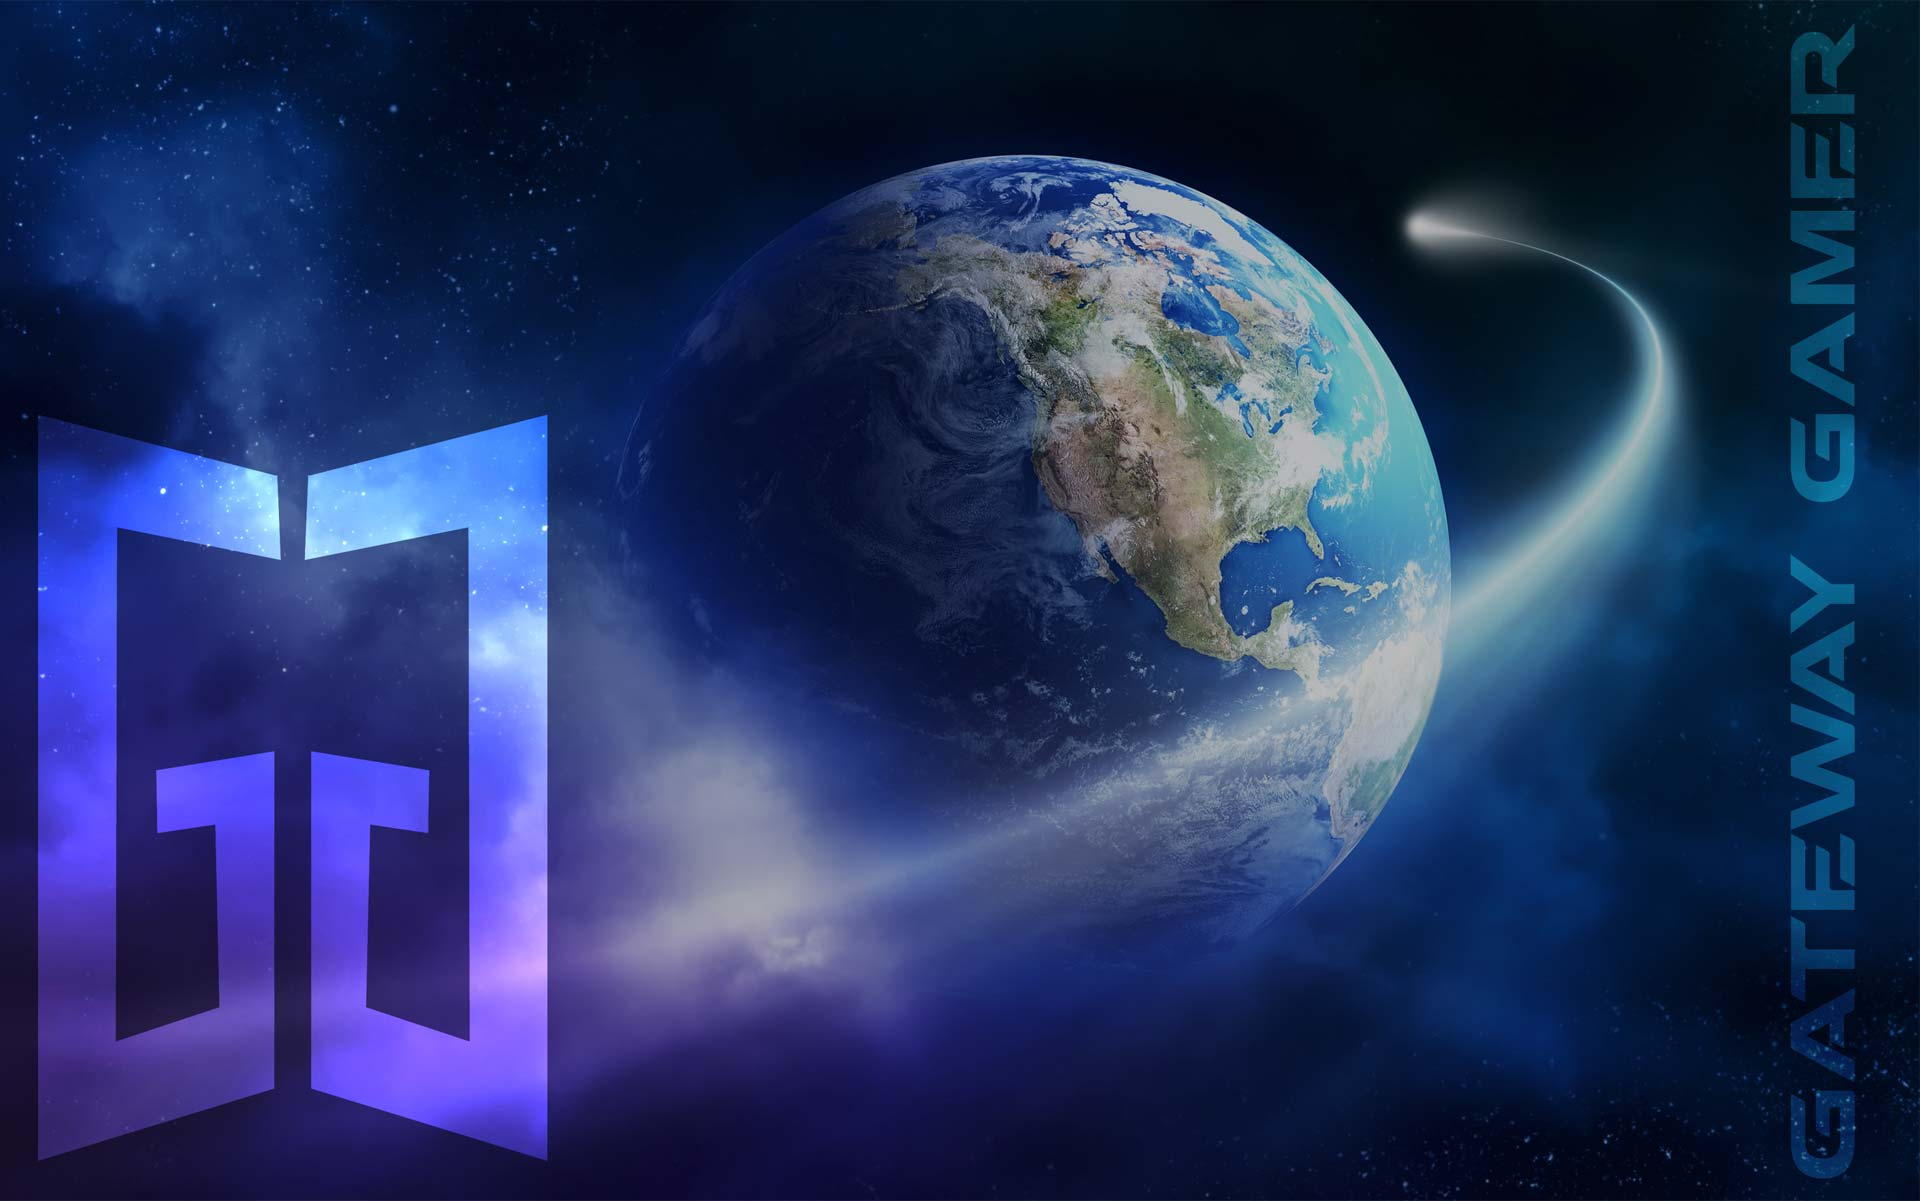
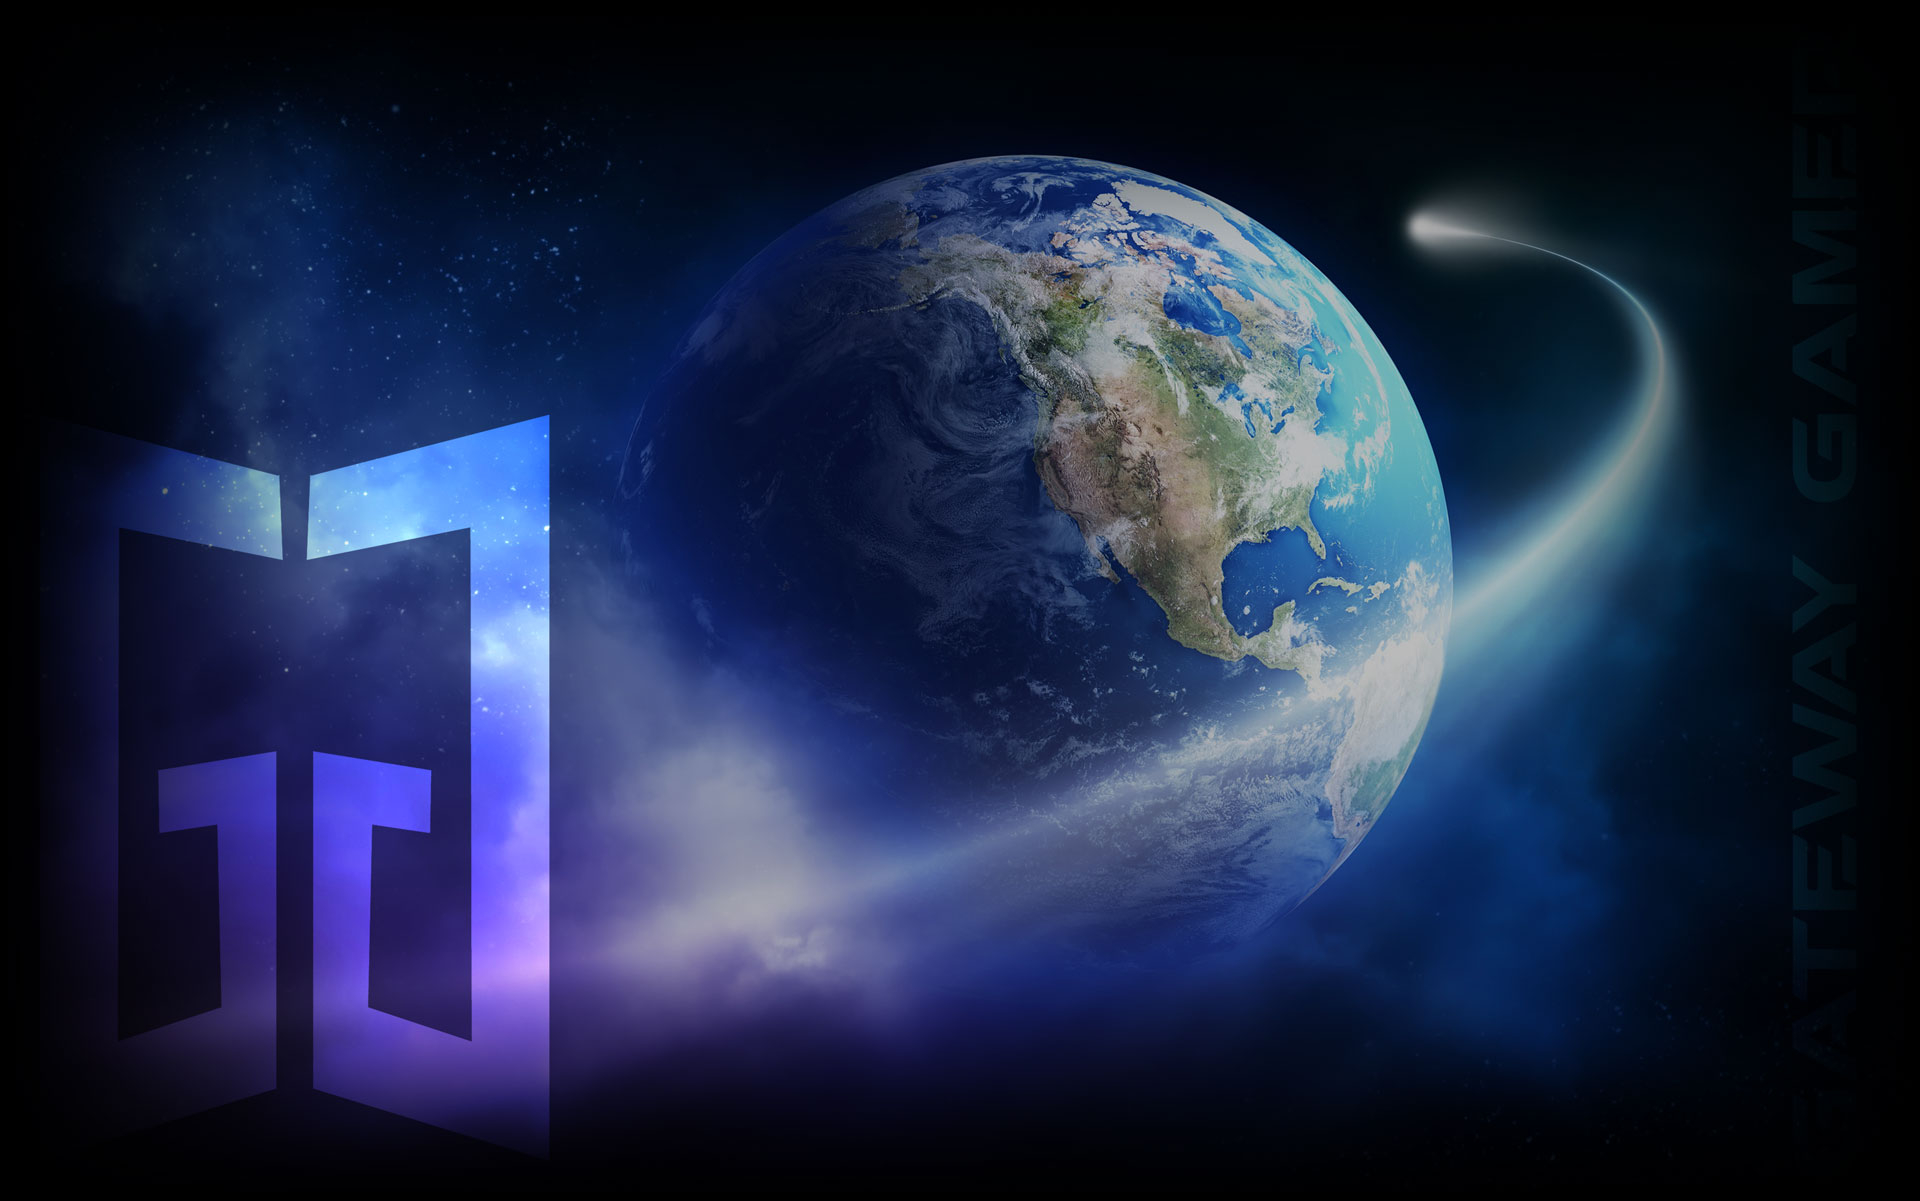
fixed user profile page, fixed bg image with gradient magic

diff --git a/public/css/main.css b/public/css/main.css
@@ -7,7 +7,7 @@
 body{
 	background:#020611;
 	color:white;
-	background:url(../img/common/fancy_background.jpg) 0px 100px;
+	background:url(../img/common/fancy_background.jpg) 0px 100px no-repeat black;
 	font-family: 'Lato', sans-serif;
 	font-weight:bold;
 }

diff --git a/config/routes.rb b/config/routes.rb
@@ -18,6 +18,7 @@ Khoa::Application.routes.draw do
   resources :posts
   resources :mails
   resources :events
+  resources :users
   mount Mercury::Engine => '/'
 
   resources :events do
